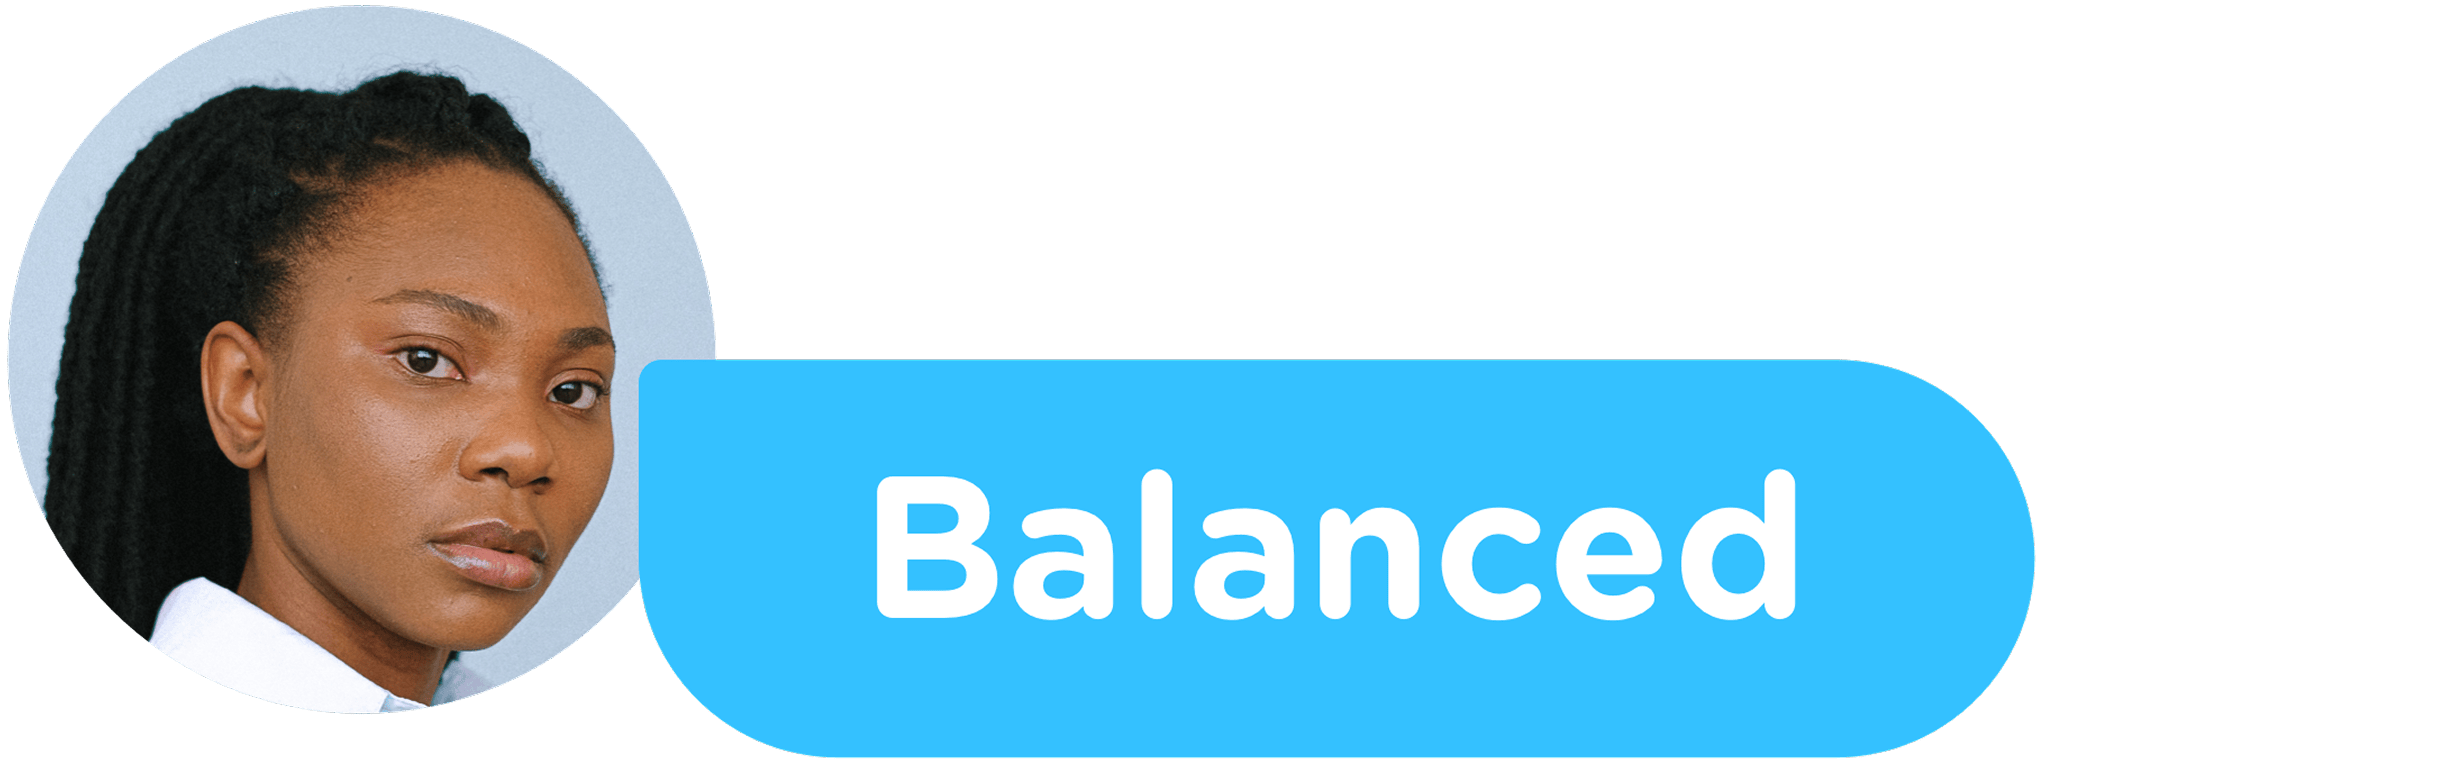
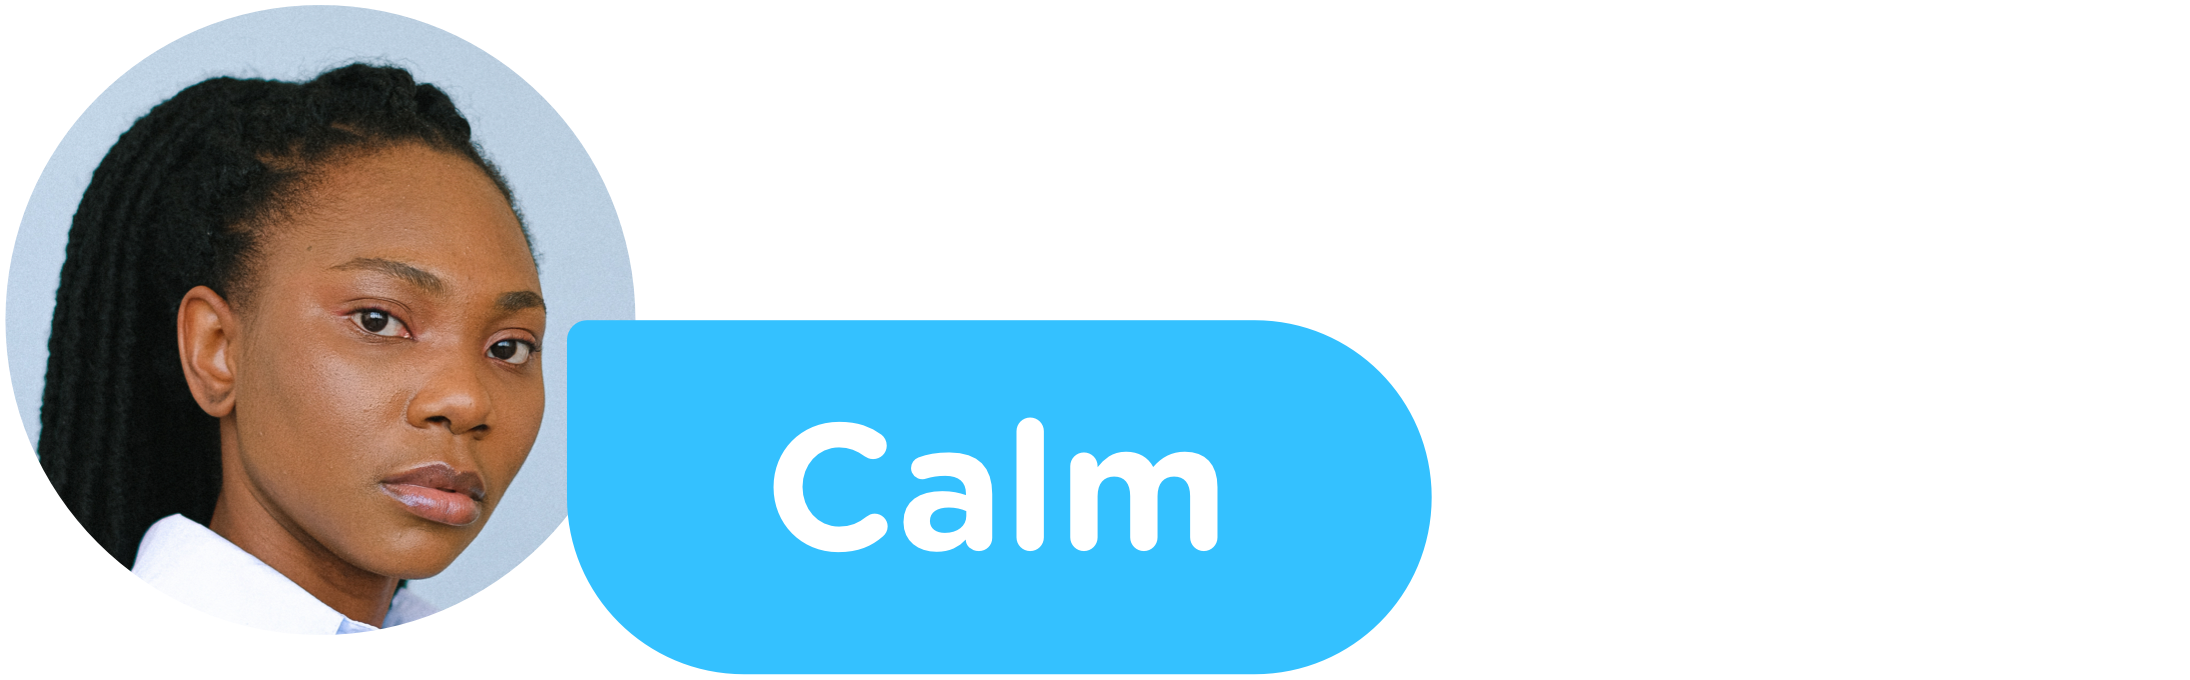
Update

diff --git a/styles﹖v=4.00.css b/styles﹖v=4.00.css
@@ -1008,7 +1008,7 @@ section {
     left: 0;
   }
   .balanced {
-    left: unset;
+    left: 25px;
     right: 0;
   }
   .stressed {
